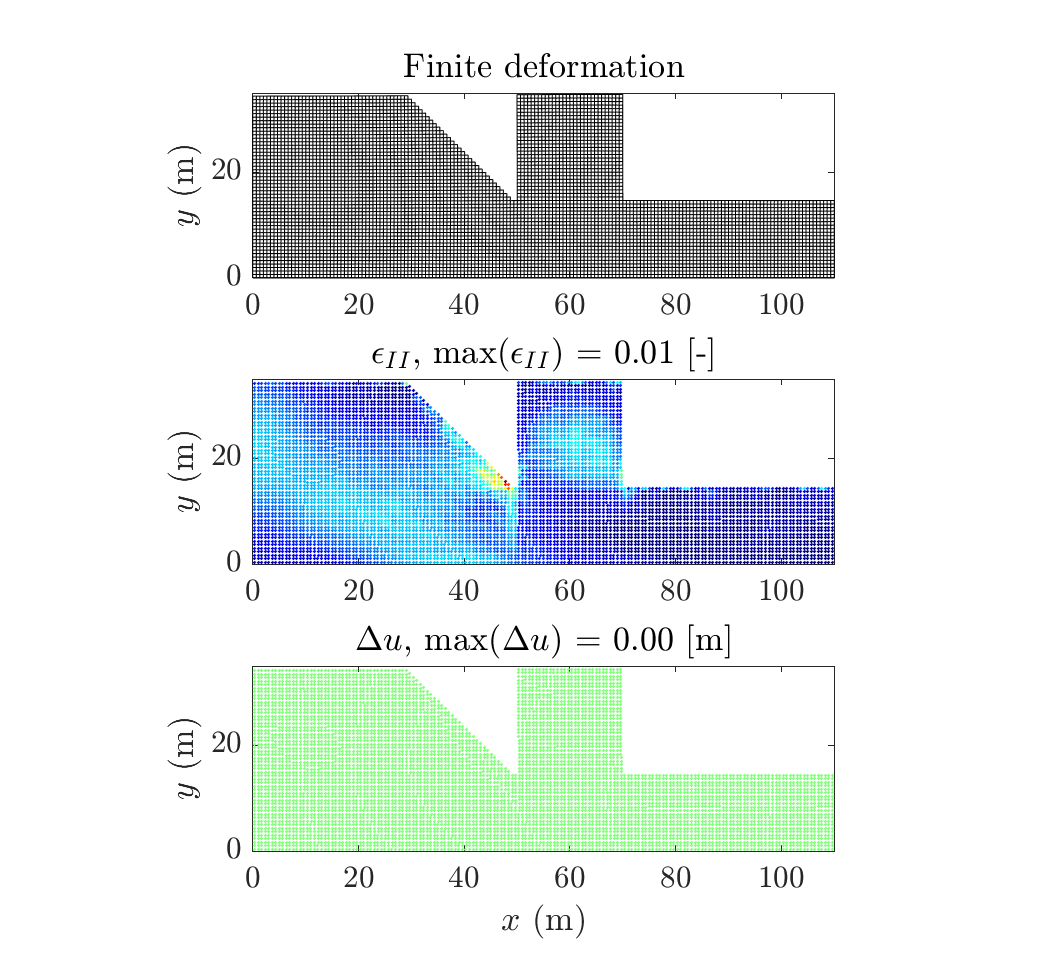
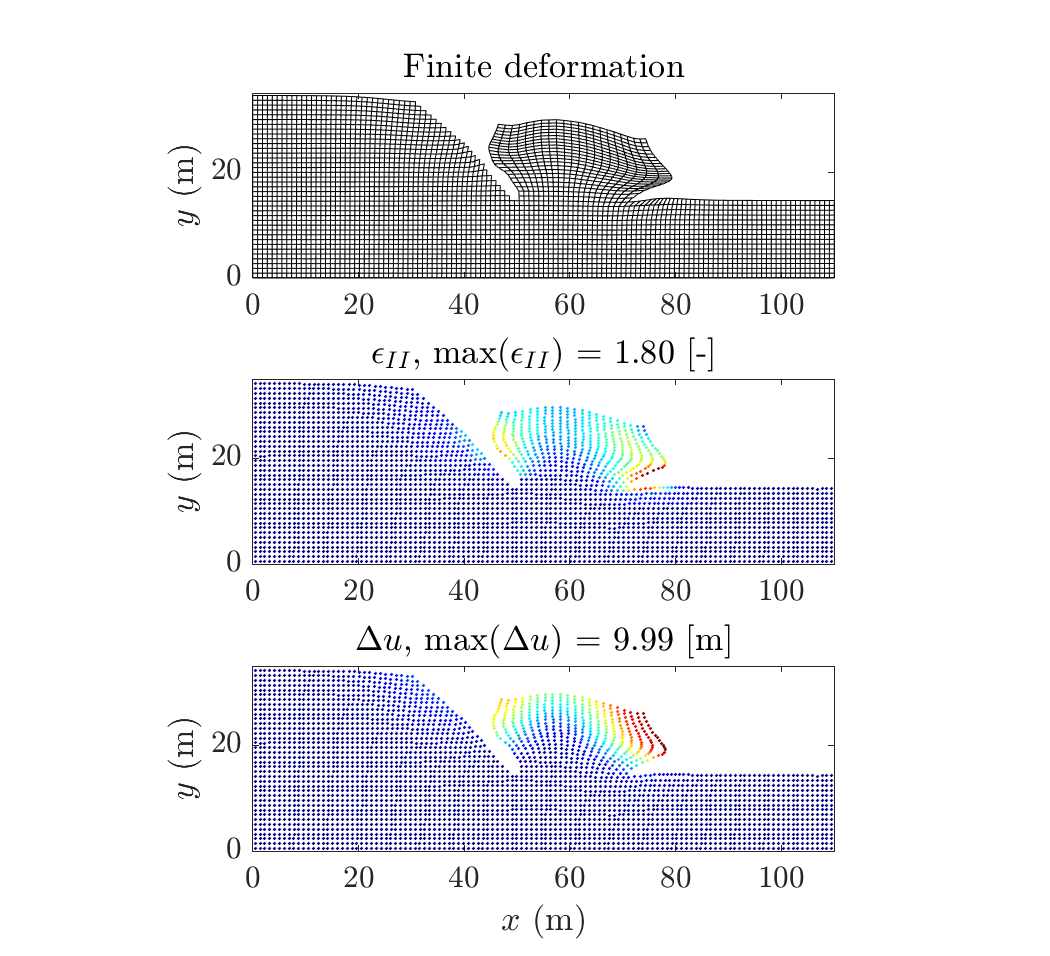
cosmetics

diff --git a/fmpmm_CPDI_EPMC__slumping.m b/fmpmm_CPDI_EPMC__slumping.m
@@ -24,7 +24,7 @@ disp('------------------------')                                          ;%
 set(0,'defaulttextinterpreter','latex')                                   ;%
 fslab  = 14; fsleg  = 14; fstit  = 14; fstick = 14;
 
-numel = repmat(55,1,1)                                                 ;%                                          ;%
+numel = repmat(40,1,1)                                                 ;%                                          ;%
 for sim=1:length(numel)
     disp('------------------------')                                      ;%
     disp(['Run ',num2str(sim),': nel = ',num2str(numel(sim)),''])         ;%
@@ -49,7 +49,7 @@ for sim=1:length(numel)
     phi0    = 20.0*pi/180                                                 ;% friction angle              [Rad]
     cohr    =  4.0e3                                                      ;% residual cohesion           [Pa]
     phir    = 7.5*pi/180                                                  ;% residual friction angle     [Rad]
-    t       = 5.0                                                         ;% simulation time             [s]
+    t       = 7.0                                                         ;% simulation time             [s]
     te      = 5.0                                                         ;% elastic loading             [s]
     %---------------------------------------------------------------------%
     

diff --git a/functions/mpSetup.m b/functions/mpSetup.m
@@ -47,14 +47,14 @@ for mp=1:length(xl)
         end
     end
     if(pos==1)
-        xlt = [xlt xl(mp)];
-        ylt = [ylt yl(mp)];
+        xlt     = [xlt xl(mp)];
+        ylt     = [ylt yl(mp)];
         isplast = [isplast true];
 
     end
     if(xl(mp)>wall_left_coord && xl(mp)<wall_right_coord)
-        xlt = [xlt xl(mp)];
-        ylt = [ylt yl(mp)];
+        xlt     = [xlt xl(mp)];
+        ylt     = [ylt yl(mp)];
         isplast = [isplast false];
     end
 end
